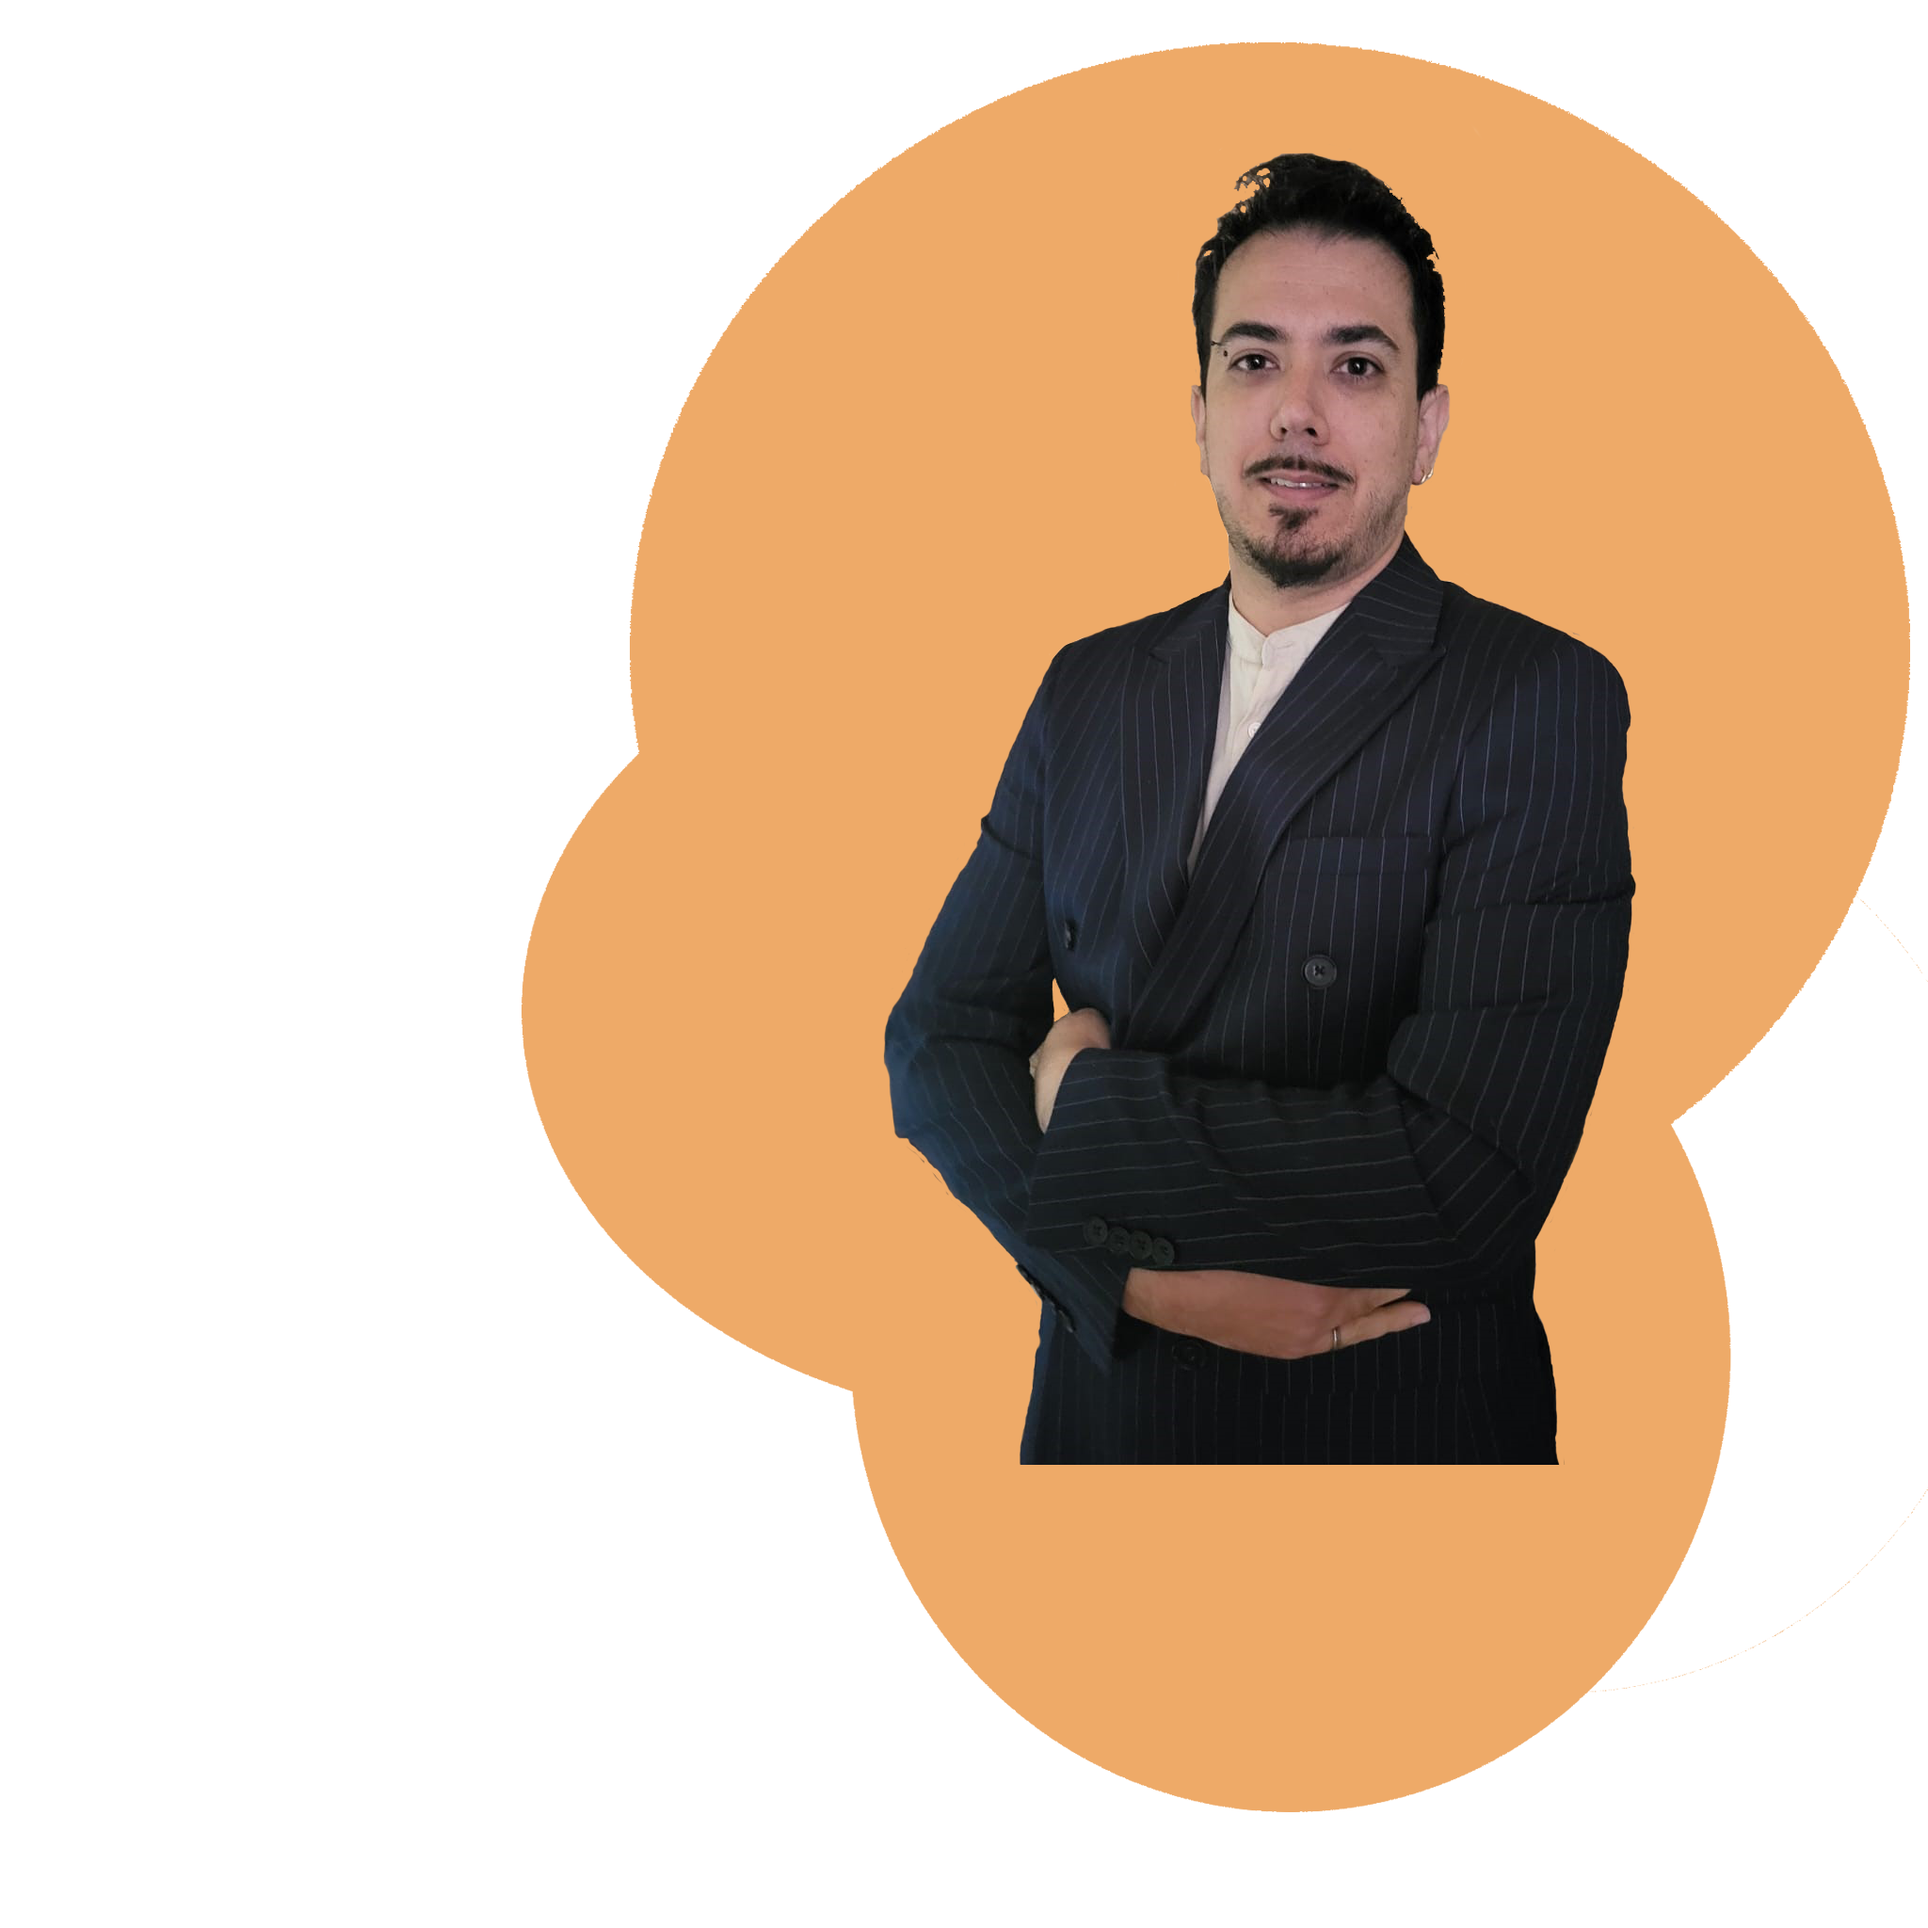
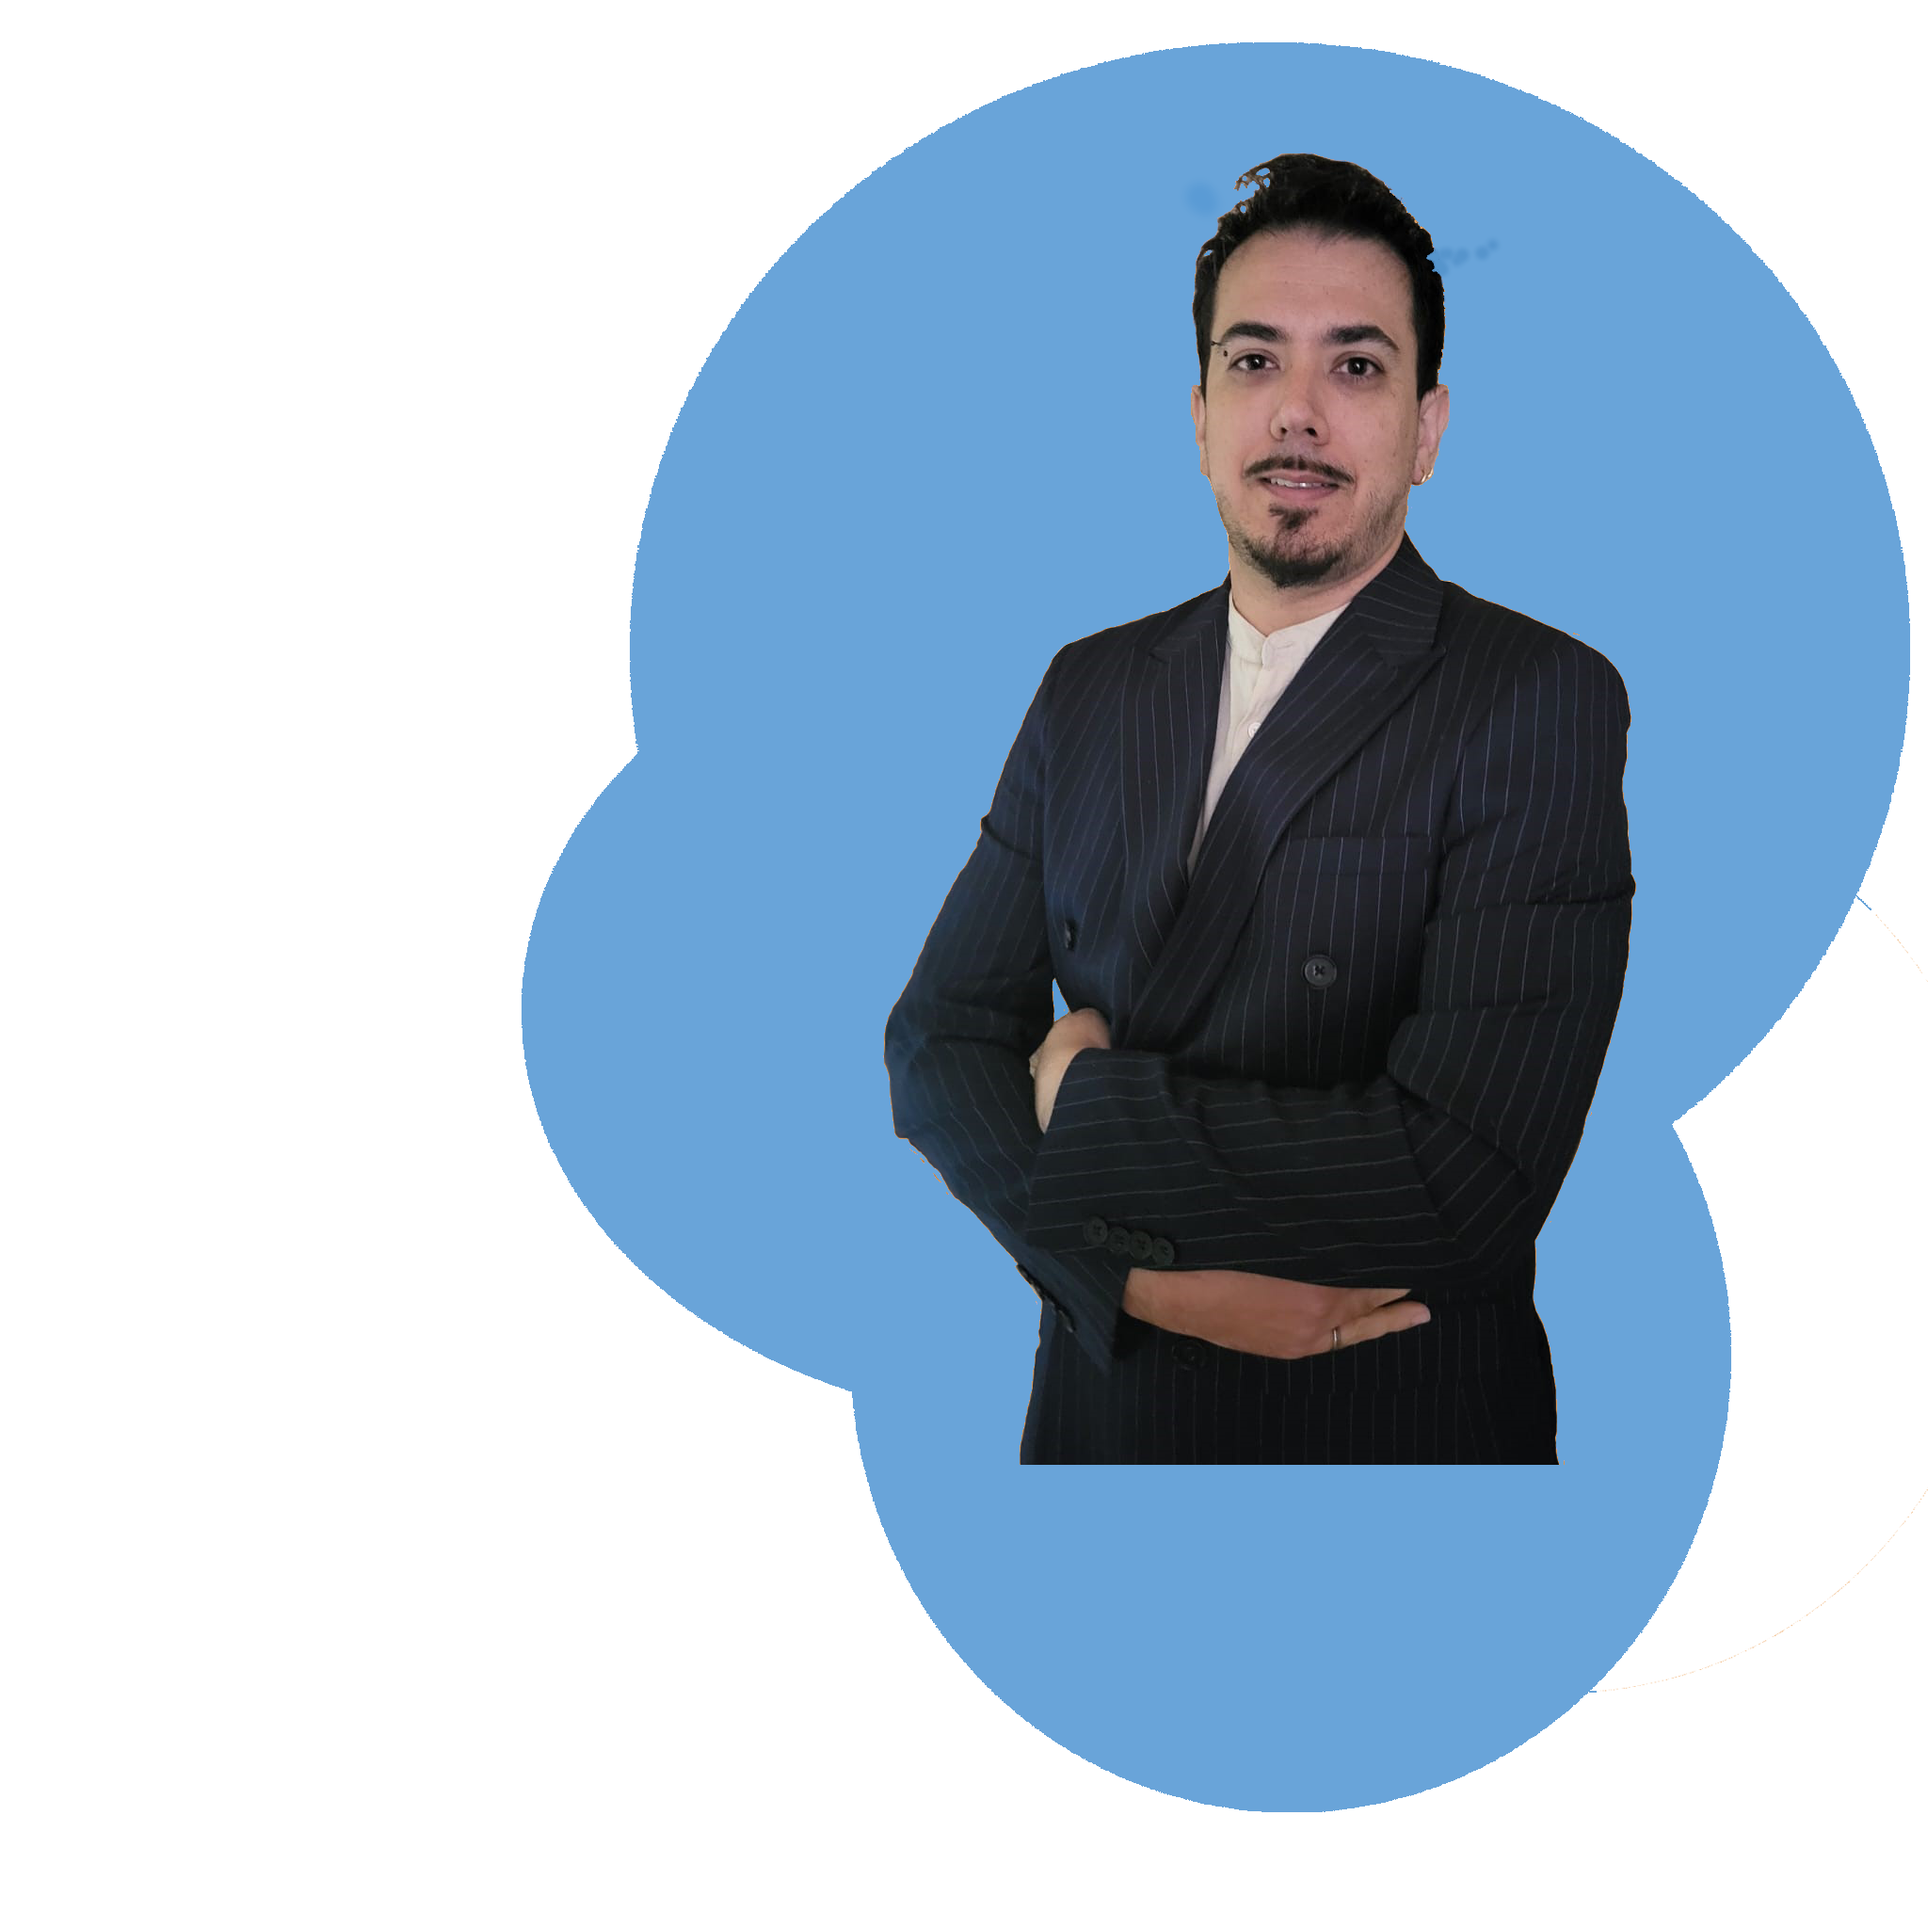
Añadiendo sistemas y desarrollo

diff --git a/src/styles/ordenador.css b/src/styles/ordenador.css
@@ -1,42 +1,38 @@
 @media (min-width: 1025px) {
-  
-  html, body{
+  html,
+  body {
     height: 100%;
     width: 100%;
     margin: 0;
-    background: #E0EAFF;
+    background: #e0eaff;
     font-family: Montserrat;
     line-height: 1.5;
     font-weight: 600;
     overflow: hidden;
-   
   }
 
   .patron {
-    position: absolute;   /* encima de todo */
+    position: absolute; /* encima de todo */
     top: 0;
     left: 0;
     width: 100%;
-    height: 100%;      /* cubrir toda la pantalla */
-     top: -25px;
-     opacity: 0.4;
-  z-index: 0; /* debajo de todo */
- 
-  }
-  .patronimagen{
- width: 100%;
-  height: 100%;
-  object-fit: cover;
-  display: block;
+    height: 100%; /* cubrir toda la pantalla */
+    top: -25px;
+    opacity: 0.4;
     z-index: 0; /* debajo de todo */
   }
-
-  
+  .patronimagen {
+    width: 100%;
+    height: 100%;
+    object-fit: cover;
+    display: block;
+    z-index: 0; /* debajo de todo */
+  }
 }
 .fotonombre {
-    position: absolute;
+  position: absolute;
   margin-top: 10%;
-   text-align: center;
+  text-align: center;
   right: 50%;
   top: 10%;
 }
@@ -45,11 +41,11 @@
   position: absolute;
 }
 
-.fondo {/*foto mia portada*/
+.fondo {
+  /*foto mia portada*/
   position: relative;
   height: 512px;
   width: 512px;
   margin-top: 40%;
-left: 200%;
-
+  left: 200%;
 }

diff --git a/src/styles/tablet.css b/src/styles/tablet.css
@@ -1,45 +1,51 @@
 @media (min-width: 769px) and (max-width: 1025px) {
-  
- 
-  html, body{
+  html,
+  body {
     height: 100%;
     width: 100%;
     margin: 0;
-    background: linear-gradient(rgba(192, 212, 255, 0.904), #eeaa68); /* seguirá ahí debajo */
+    background: #e0eaff;
     font-family: Montserrat;
     line-height: 1.5;
     font-weight: 600;
     overflow: hidden;
-   
   }
 
   .patron {
-    position: absolute;   /* encima de todo */
+    position: absolute; /* encima de todo */
     top: 0;
     left: 0;
     width: 100%;
-    height: 100%;      /* cubrir toda la pantalla */
+    height: 100%; /* cubrir toda la pantalla */
     top: -25px;
+    opacity: 0.4;
     z-index: 0; /* debajo de todo */
   }
-
-  .patronimagen{
-  width: 100%;
-  display: block;
+  .patronimagen {
+    width: 100%;
+    height: 100%;
+    object-fit: cover;
+    display: block;
     z-index: 0; /* debajo de todo */
   }
+}
 .fotonombre {
   position: absolute;
+  margin-top: 10%;
+  text-align: center;
   right: 50%;
   top: 10%;
 }
 
-.bloquefondo{
-left: 60%;
-}
-.fondo {
-left: -50px;
+.bloquefondo {
+  position: absolute;
 }
 
-  
+.fondo {
+  /*foto mia portada*/
+  position: relative;
+  height: 512px;
+  width: 512px;
+  margin-top: 40%;
+  left: 200%;
 }

diff --git a/src/styles/mobile.css b/src/styles/mobile.css
@@ -1,46 +1,51 @@
-
-
 @media (max-width: 768px) {
-  
-  html, body{
+  html,
+  body {
     height: 100%;
     width: 100%;
     margin: 0;
-    background: linear-gradient(rgba(192, 212, 255, 0.904), #eeaa68); /* seguirá ahí debajo */
+    background: #e0eaff;
     font-family: Montserrat;
     line-height: 1.5;
     font-weight: 600;
     overflow: hidden;
-   
   }
 
   .patron {
-    position: absolute;   /* encima de todo */
+    position: absolute; /* encima de todo */
     top: 0;
     left: 0;
     width: 100%;
-    height: 100%;      /* cubrir toda la pantalla */
+    height: 100%; /* cubrir toda la pantalla */
     top: -25px;
+    opacity: 0.4;
     z-index: 0; /* debajo de todo */
   }
-
-  .patronimagen{
-  width: 100%;
-  display: block;
+  .patronimagen {
+    width: 100%;
+    height: 100%;
+    object-fit: cover;
+    display: block;
     z-index: 0; /* debajo de todo */
   }
+}
 .fotonombre {
   position: absolute;
+  margin-top: 10%;
+  text-align: center;
   right: 50%;
   top: 10%;
 }
 
-.bloquefondo{
-left: 60%;
-}
-.fondo {
-left: -50px;
+.bloquefondo {
+  position: absolute;
 }
 
-  
+.fondo {
+  /*foto mia portada*/
+  position: relative;
+  height: 512px;
+  width: 512px;
+  margin-top: 40%;
+  left: 200%;
 }

diff --git a/src/App.jsx b/src/App.jsx
@@ -5,18 +5,22 @@ import Acerca from "./pages/Acerca.jsx";
 import Contacto from "./pages/Contacto.jsx";
 import Estudios from "./pages/Estudios.jsx";
 import Experiencia from "./pages/Experiencia.jsx";
+import Sistemas from "./pages/Sistemas.jsx";
+import Desarrollador from "./pages/Desarrollador.jsx"; // ✔ corregido
 import "./styles/App.css";
 
 function App() {
   return (
     <BrowserRouter>
-      <Menu /> {/* Menú de navegación */}
+      <Menu />
       <Routes>
         <Route path="/" element={<Inicio />} />
         <Route path="/acerca" element={<Acerca />} />
         <Route path="/contacto" element={<Contacto />} />
         <Route path="/estudios" element={<Estudios />} />
         <Route path="/experiencia" element={<Experiencia />} />
+        <Route path="/sistemas" element={<Sistemas />} />
+        <Route path="/desarrollador" element={<Desarrollador />} />{" "}
       </Routes>
     </BrowserRouter>
   );

diff --git a/src/styles/App.css b/src/styles/App.css
@@ -1,4 +1,37 @@
 /*
+*Experiencia
+*/
+.experiencia {
+  margin-top: 5%;
+  width: 90%;
+  margin-left: auto;
+  margin-right: auto;
+  padding: 20px;
+}
+
+.proyectos {
+  display: grid;
+  grid-template-columns: repeat(2, 1fr);
+  gap: 20px;
+}
+
+.title1 ul,
+.title2 ul,
+.title3 ul,
+.title4 ul {
+  margin: 10px 0 0 15px;
+  padding: 0;
+}
+
+.title1 h2,
+.title2 h2,
+.title3 h2,
+.title4 h2 {
+  margin-top: 0;
+  margin-bottom: 10px;
+}
+
+/*
 *Acerca de
 */
 .descripcion {
@@ -11,7 +44,6 @@
 .acerca-container {
   position: relative;
   font-family: Montserrat, sans-serif;
-
   padding: 5% 10%;
 }
 
@@ -34,11 +66,4 @@
     column-count: 2;
     column-gap: 2rem;
   }
-}
-
-/*
-*Experiencia
-*/
-.experiencia {
-  margin-top: 10%;
 }

diff --git a/src/pages/Desarrollador.jsx b/src/pages/Desarrollador.jsx
@@ -1,4 +1,4 @@
-function Experiencia() {
+function Desarrollador() {
   return (
     <div>
       <div className="patron">
@@ -78,4 +78,4 @@ function Experiencia() {
   );
 }
 
-export default Experiencia;
+export default Desarrollador;

diff --git a/src/pages/Sistemas.jsx b/src/pages/Sistemas.jsx
@@ -1,4 +1,4 @@
-function Experiencia() {
+function Sistemas() {
   return (
     <div>
       <div className="patron">
@@ -78,4 +78,4 @@ function Experiencia() {
   );
 }
 
-export default Experiencia;
+export default Sistemas;
